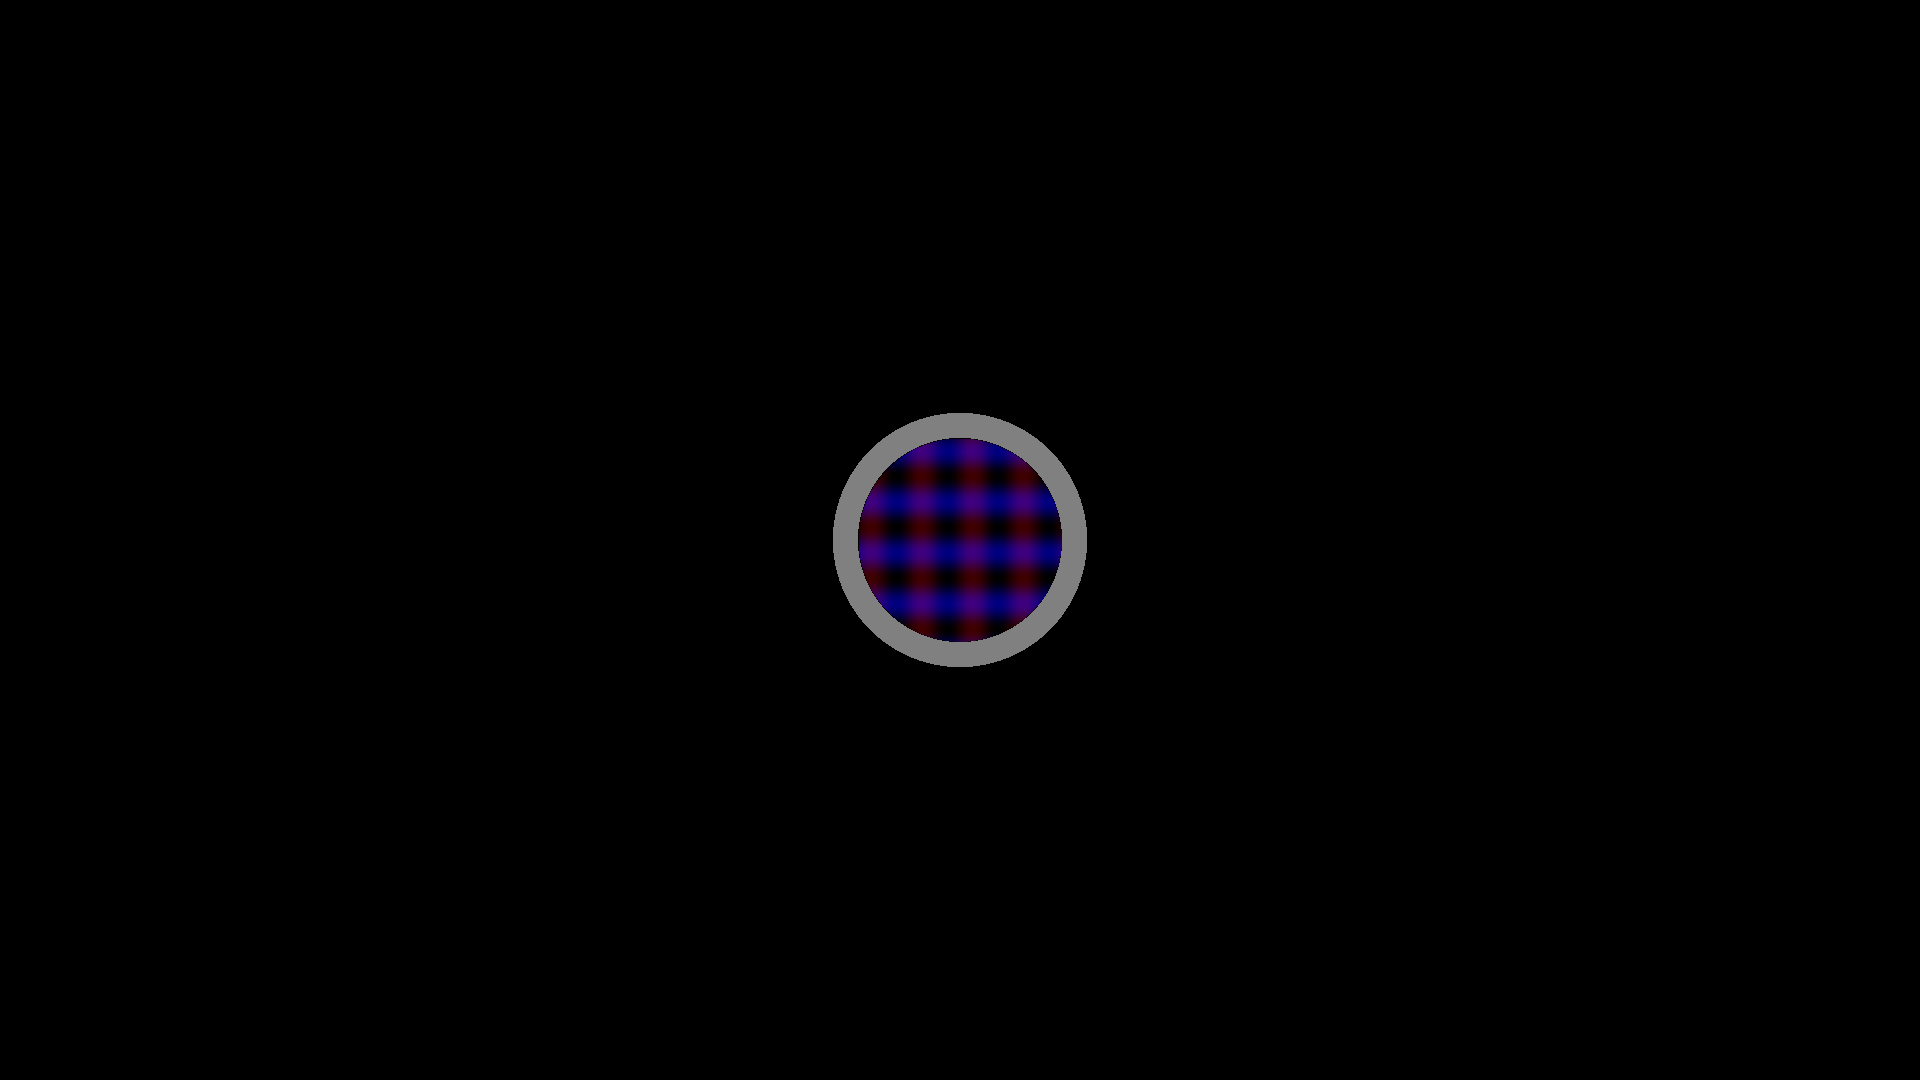
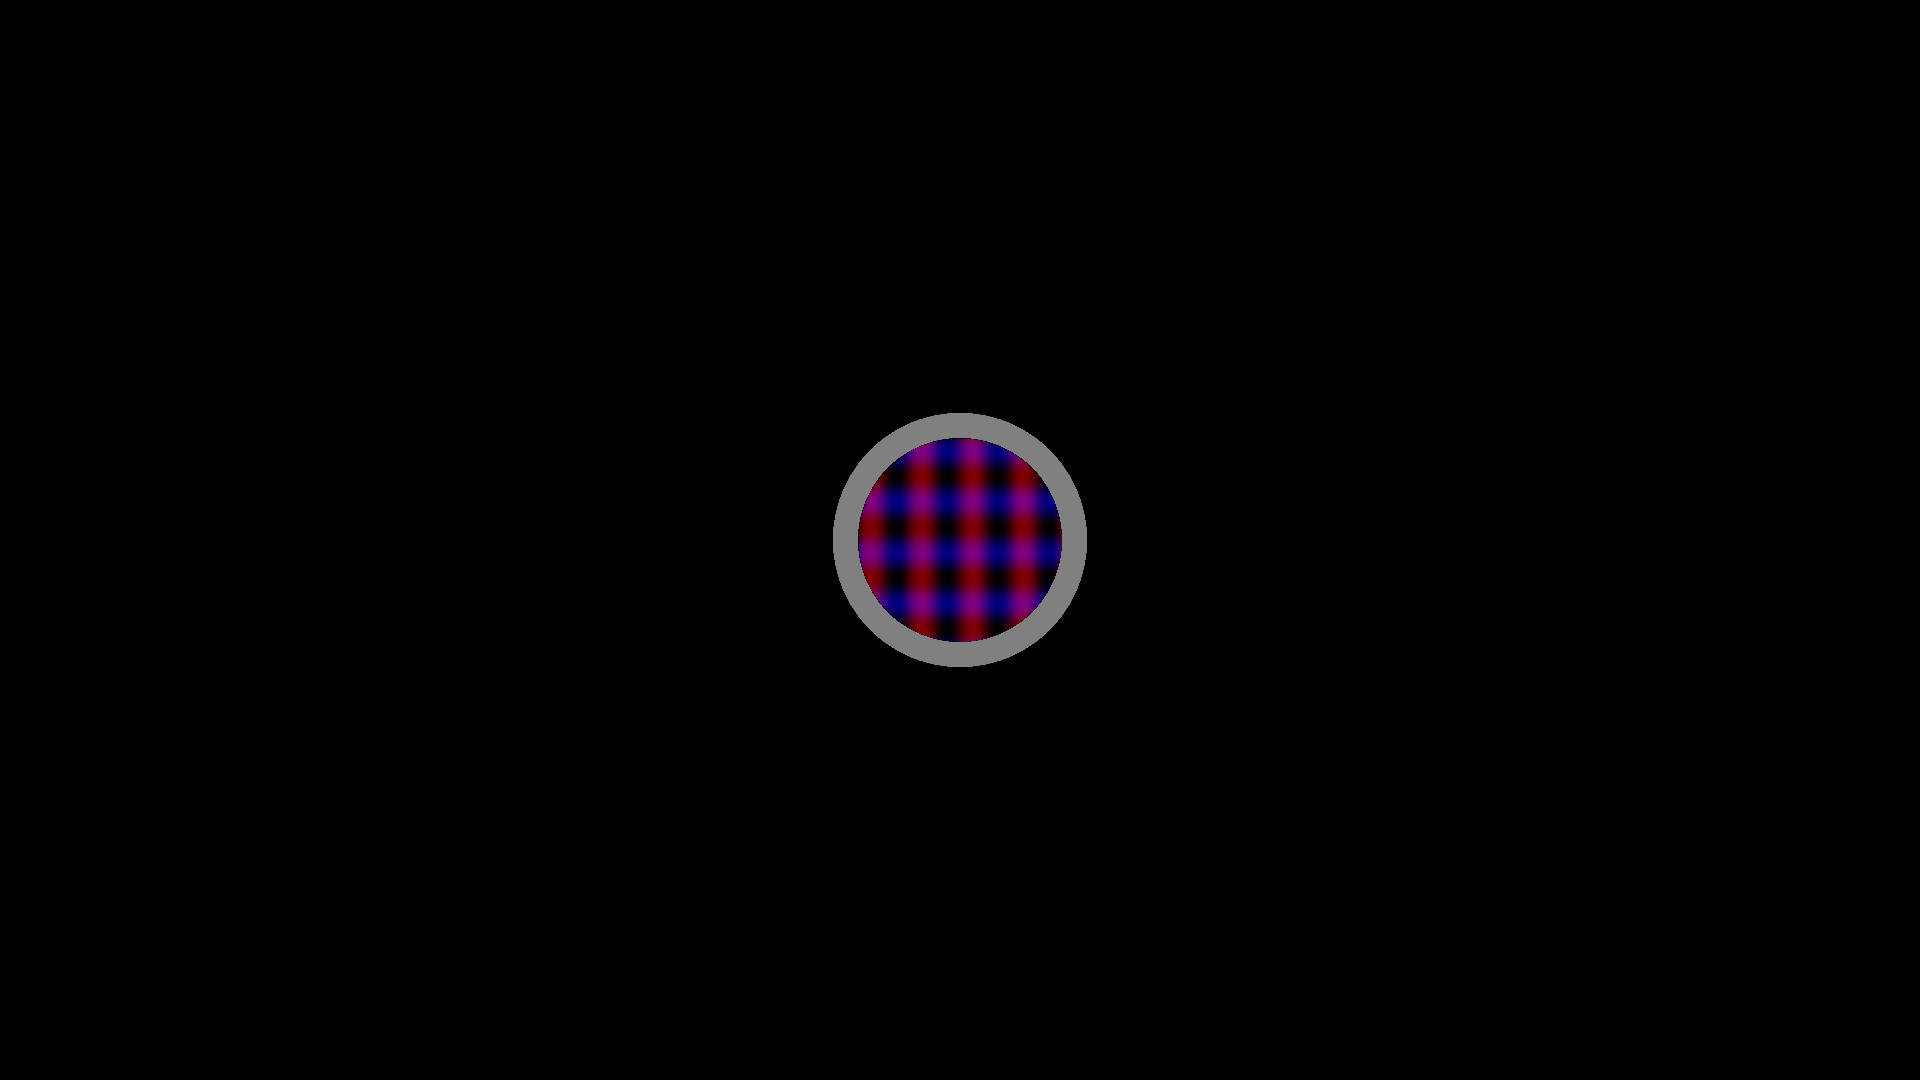
for debugging

Changed region(s): [[0.4375, 0.3972, 0.5625, 0.6111]]

diff --git a/binoriv_stimulus.m b/binoriv_stimulus.m
@@ -10,13 +10,13 @@ mkdir stimulus
 
 %% Parameters
 savefile = 1; % 1: save data
-orientation = [0 1 2]; % orientation: 0 for vertical, 1 for horizontal, 2 for both overlapped
+orientation = [0 1 2 3]; % orientation: 0 for vertical, 1 for horizontal, 2 for binocular (you can maximise contrast for both gratings), 3 for overlapped image of 1&2
 annulus = 1; % 0: no annulus; 1: annulus
 
 dist_scr = 42; % distance from screen (cm)
 radius_gra = 5; % radius of grating circle (deg)
-cont_l = 255/2; % contrast intensity [1 255]; 255 is the strongest
-cont_r = 255/2; % contrast intensity [1 255]; 255 is the strongest
+cont_l = 255; % contrast intensity [1 255]; 255 is the strongest
+cont_r = 255; % contrast intensity [1 255]; 255 is the strongest
 
 %% Define grating stimulus
 prompt = 'How many inches is the screen?: ';
@@ -30,8 +30,8 @@ precue = 0.01*16.7*30; %16.7*30=501ms - 16.7ms is reflesh rate.
 AssertOpenGL;
 
 % Get the list of screens and choose the one with the highest screen number.
-screenNumber=max(Screen('Screens'));
-%screenNumber=max(Screen('Screens')-1);
+%screenNumber=max(Screen('Screens'));
+screenNumber=max(Screen('Screens')-1);
 
 % Find the color values which correspond to white and black.
 white=WhiteIndex(screenNumber);
@@ -39,7 +39,7 @@ black=BlackIndex(screenNumber);
 
 
 %% Define grating 
-cycles = 5; % spatial frequency (cycles per stimulus)
+cycles = 2; % spatial frequency (cycles per stimulus)
 [w, rect] = Screen('OpenWindow', screenNumber, [0 0 0]);
 HideCursor;
 % make stimulus image
@@ -62,6 +62,7 @@ lineColour = [255*0.5 255*0.5 255*0.5]; % outline colour
 
 image_mono_v = zeros(round(xysize),round(xysize),3);
 image_mono_h = zeros(round(xysize),round(xysize),3);
+image_bino = zeros(round(xysize),round(xysize),3);
 [x,y] = meshgrid(-xylim:2*xylim/(xysize-1):xylim, ...
     -xylim:2*xylim/(xysize-1):xylim);
 circle = x.^2 + y.^2 <= xylim^2; % circular boundry
@@ -73,12 +74,15 @@ image_mono_v(:,:,1) = (sin(x)+1)/2*cont_l .* circle; % R channel; 255 is max con
 %image_mono_v(:,:,4) = 255*0.5; % alpha chanel (transparency); the drawing destination in perceptual
 %image_mono_h(:,:,1) = (sin(y)+1)/2*cont_r .* circle;
 %image_mono_h(:,:,2) = (sin(y)+1)/2*cont_r .* circle;
-image_mono_h(:,:,3) = 255;
+%image_mono_h(:,:,3) = 255;
 image_mono_h(:,:,3) = (sin(y)+1)/2*cont_r .* circle;
 %image_mono_h(:,:,4) = 255*0.5; % alpha chanel (transparency)
+image_bino(:,:,1) = (sin(x)+1)/2*cont_l .* circle;
+image_bino(:,:,3) = (sin(y)+1)/2*cont_r .* circle;
 
 mono_v = Screen('MakeTexture', w, image_mono_v);
 mono_h = Screen('MakeTexture', w, image_mono_h);
+bino = Screen('MakeTexture', w, image_bino);
 
 red_filter = zeros(rect(4),rect(3),3);
 blue_filter = zeros(rect(4),rect(3),3);
@@ -125,7 +129,19 @@ for i = orientation
             imageArray = Screen('GetImage', w); % get colour information of the entire screen
             imwrite(imageArray, 'stimulus/right.png'); 
         end
-    elseif i == 2 % overlapped image
+    elseif i == 2 % binocular
+        Screen('BlendFunction', w, GL_SRC_ALPHA, GL_ONE_MINUS_SRC_ALPHA);
+        Screen('DrawTexture', w, bino)
+        if annulus == 1
+            Screen('FrameOval', w, lineColour , ann_rect, lineWidth);
+        end
+        %Screen('DrawTexture', w, blue_filter)
+        Screen('Flip', w); % update screen
+        if savefile == 1
+            imageArray = Screen('GetImage', w); % get colour information of the entire screen
+            imwrite(imageArray, 'stimulus/binocular.png'); 
+        end
+    elseif i == 3 % overlapped image
         imdata_l  = imread('stimulus/left.png', 'png'); % vertical corresponds to left
         imdata_l(:,:,4) = 255; % alpha channel
         imdata_r  = imread('stimulus/right.png', 'png'); % horizontal corresponds to right

diff --git a/binoriv_percep_switch.m b/binoriv_percep_switch.m
@@ -1,5 +1,5 @@
 % Author: Ryo Segawa (whizznihil.kid@gmail.com)
-function binoriv_percep_switch(w,red,blue,superblock,triad,trial_len,num_trial,imagetex_l,imagetex_r,potential_loc,report,subj_dist)
+function binoriv_percep_switch(w,red,blue,superblock,triad,trial_len,num_trial,imagetex_l,imagetex_r,imagetex_bino,potential_loc,report,subj_dist,EscapeKey)
 
 if report == 1
     % Define the key for reporting the content of perception
@@ -37,9 +37,10 @@ for t = 1:num_trial
         Screen('FillOval', w, red, fix_loc_l);
         Screen('FillOval', w, blue, fix_loc_r);
         %stimuli
-        Screen('DrawTexture', w, imagetex_l);
-        Screen('DrawTexture', w, imagetex_r);
-        
+        Screen('DrawTexture', w, imagetex_bino);
+        %Screen('DrawTexture', w, imagetex_l);
+        %Screen('DrawTexture', w, imagetex_r);
+     
         vbl = Screen('Flip', w); % update screen
         
         [keyIsDown, press, KeyCode] = KbCheck;

diff --git a/binoriv_main.m b/binoriv_main.m
@@ -112,7 +112,7 @@ imagetex_bino = Screen('MakeTexture', w, imdata_bino);
 for i = 1:num_superblock
     
     for j = 1:num_triad
-        phys_bino = 0%randi([0 1],1,1); % if 0 phys->bino, if 1 bino->phys
+        phys_bino = 1%randi([0 1],1,1); % if 0 phys->bino, if 1 bino->phys
         phys_stim = phys_stim(randperm(num_trial)); % shuffle the order of the phys stimuli
         if phys_bino == 0
             binoriv_phys_switch(w,red,blue,i,j,trial_len,num_trial,imagetex_l,imagetex_r,potential_loc,report,phys_stim,subj_dist,EscapeKey);

diff --git a/binoriv_phys_switch.m b/binoriv_phys_switch.m
@@ -1,5 +1,5 @@
 % Author: Ryo Segawa (whizznihil.kid@gmail.com)
-function binoriv_phys_switch(w,red,blue,superblock,triad,trial_len,num_trial,imagetex_l,imagetex_r,potential_loc,report,phys_stim,subj_dist)
+function binoriv_phys_switch(w,red,blue,superblock,triad,trial_len,num_trial,imagetex_l,imagetex_r,potential_loc,report,phys_stim,subj_dist,EscapeKey)
 
 if report == 1
     % Define the key for reporting the content of perception
